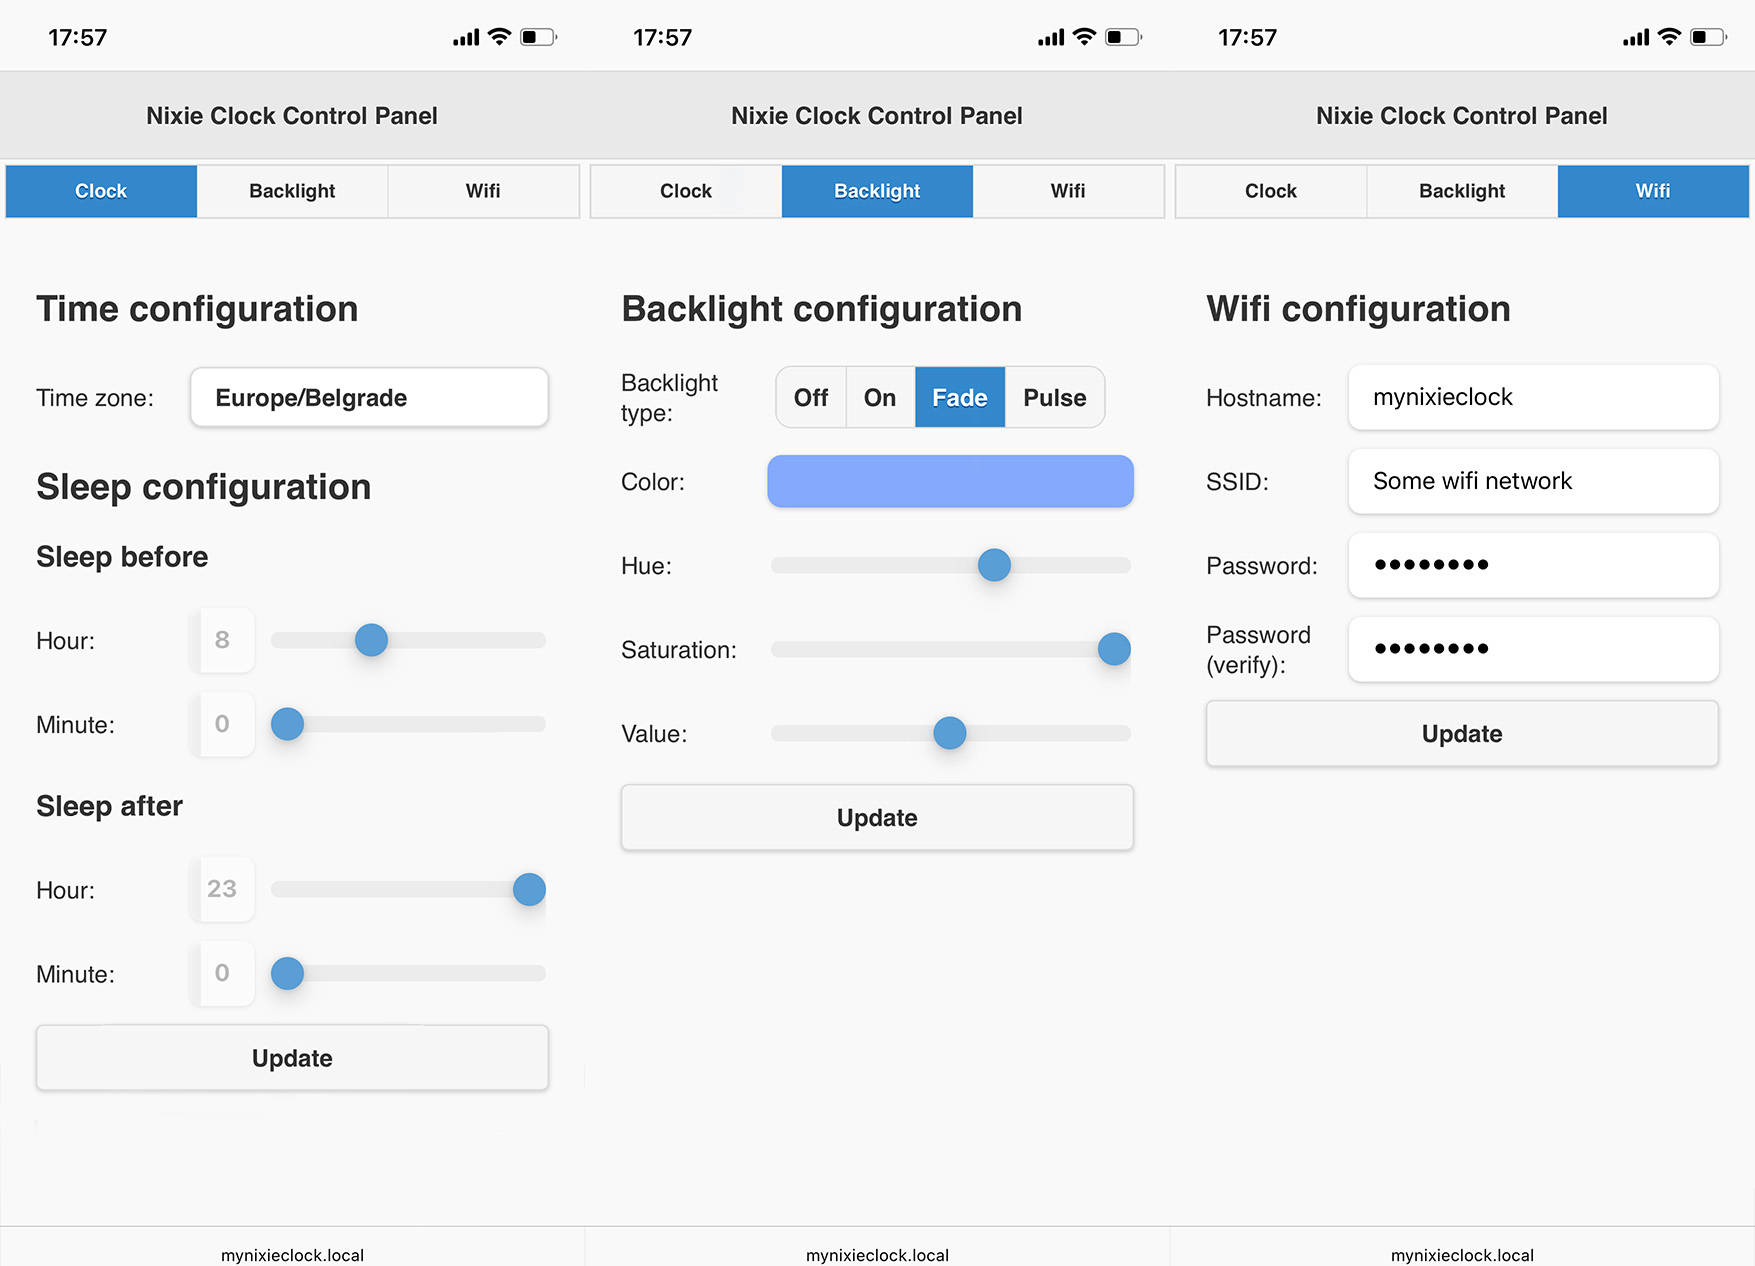
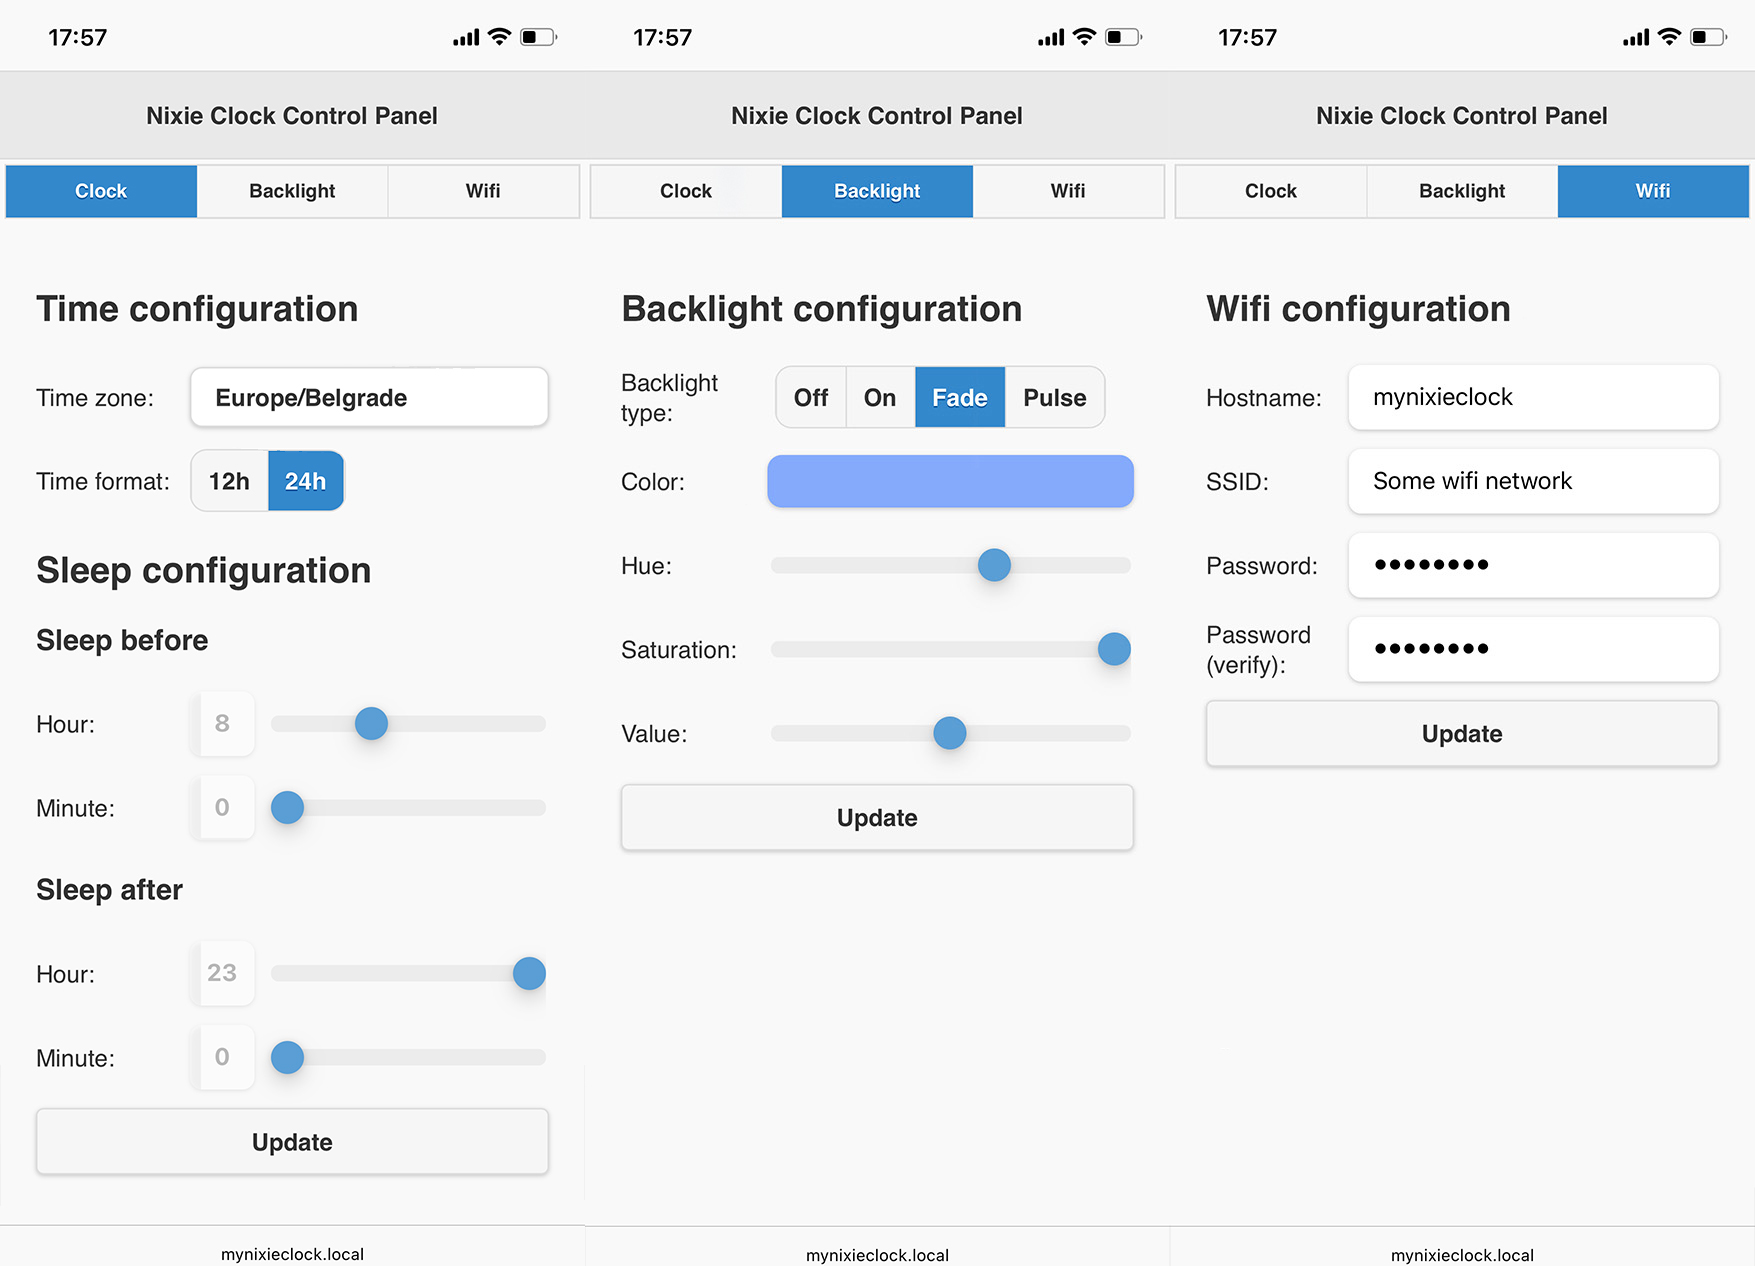
Add support for showing 12 and 24 hour formats

diff --git a/firmware/flash_data/frontend/server.js b/firmware/flash_data/frontend/server.js
@@ -13,19 +13,21 @@ class HSV {
 }
 
 class TimeInfo {
-    constructor(tzZone, tzOffset) {
+    constructor(tzZone, tzOffset, timeFormat) {
         this.tzZone = tzZone;
         this.tzOffset = tzOffset
+        this.timeFormat = timeFormat;
     }
     toJson() {
         return {
             "tz_zone": this.tzZone,
-            "tz_offset": this.tzOffset
+            "tz_offset": this.tzOffset,
+            "time_format": this.timeFormat
         };
     }
     static Builder = class {
         fromJson(message) {
-            return new TimeInfo(message.tz_zone, message.tz_offset);
+            return new TimeInfo(message.tz_zone, message.tz_offset, message.time_format);
         }
     }
 }
@@ -221,6 +223,7 @@ function getTimeInfo() {
                     timeZoneDropdown.selectedIndex = i;
                 }
             }
+            selectRadioChoiceByName("timeFormatChoice", timeInfo.timeFormat);
         })
         .catch(error => {
             console.error('There was a problem with the getting time info:', error);
@@ -230,7 +233,7 @@ function getTimeInfo() {
 function setTimeInfo() {
     const timeZoneDropdown = document.getElementById('selectTimeZone');
     const selectedTimeZone = timeZoneDropdown.options[timeZoneDropdown.selectedIndex];
-    let timeInfo = new TimeInfo(selectedTimeZone.text, selectedTimeZone.value);
+    let timeInfo = new TimeInfo(selectedTimeZone.text, selectedTimeZone.value, getSelectedRadioChoice("timeFormatChoice"));
     const requestOptions = {
         method: 'POST',
         headers: {

diff --git a/firmware/flash_data/frontend/index.html b/firmware/flash_data/frontend/index.html
@@ -25,6 +25,19 @@
 			<select class="select" name="selectTimeZone" id="selectTimeZone">
 			</select>
 		</div>
+		<div class="field-container">
+			<label for="timeFormat">Time format:</label>
+			<div class="choice-container">
+				<div class="choice" onclick="selectRadioChoiceByEvent(event)" name="timeFormatChoice" value="12h">
+					<input id="timeFormat12Hour" type="radio" />
+					<label for="timeFormat12Hour">12h</label>
+				</div>
+				<div class="choice" onclick="selectRadioChoiceByEvent(event)" name="timeFormatChoice" value="24h">
+					<input id="timeFormat24Hour" type="radio" />
+					<label for="timeFormat24Hour">24h</label>
+				</div>
+			</div>
+		</div>
 		<h2>Sleep configuration</h2>
 		<h3>Sleep before</h3>
 		<div class="field-container">

diff --git a/firmware/main/nixie_clock.cpp b/firmware/main/nixie_clock.cpp
@@ -91,9 +91,9 @@ void NixieClock::initialize() {
     // TODO initialize RTC
 
     ESP_LOGI(kTag, "Setting up time zone...");
-    TimeInfo timeInfo = ConfigStore::loadTimeInfo().value_or(TimeInfo());
-    ESP_LOGI(kTag, "Time zone: %s", timeInfo.getTzOffset().c_str());
-    setenv("TZ", timeInfo.getTzOffset().c_str(), 1);
+    mTimeInfo = ConfigStore::loadTimeInfo().value_or(TimeInfo());
+    ESP_LOGI(kTag, "Time zone: %s", mTimeInfo.getTzOffset().c_str());
+    setenv("TZ", mTimeInfo.getTzOffset().c_str(), 1);
     tzset();
     ESP_LOGI(kTag, "Setting up time zone... done");
 
@@ -168,6 +168,7 @@ std::optional<TimeInfo> NixieClock::onGetTimeInfo() const {
 }
 
 void NixieClock::onSetTimeInfo(const TimeInfo& timeInfo) {
+    mTimeInfo = timeInfo;
     ConfigStore::saveTimeInfo(timeInfo);
     setenv("TZ", timeInfo.getTzOffset().c_str(), 1);
     tzset();
@@ -429,11 +430,11 @@ bool NixieClock::startShowCurrentTimeTask(void) {
 void NixieClock::showCurrentTimeTask(void* param) {
     NixieClock* self = static_cast<NixieClock*>(param);
     time_t now;
-    struct tm timeInfo;
+    struct tm nowTm;
     time(&now);
-    localtime_r(&now, &timeInfo);
+    localtime_r(&now, &nowTm);
     char buf[32];
-    strftime(buf, sizeof(buf), "%H:%M:%S", &timeInfo);
+    strftime(buf, sizeof(buf), "%H:%M:%S", &nowTm);
     ESP_LOGI(kTag, "Current time: %s", buf);
     if (self->isInSleepMode()) {
         ESP_LOGI(kTag, "Sleep mode on");
@@ -457,8 +458,16 @@ void NixieClock::showCurrentTimeTask(void* param) {
     // Show time on nixie tube. Since there is only one nixie tube it is
     // needed to sequentially show digits. The time is displayed in the
     // following format: H <pause> H <pause> M <pause> M
-    int32_t nixieOutput[] = {timeInfo.tm_hour / 10, timeInfo.tm_hour % 10,
-                             timeInfo.tm_min / 10, timeInfo.tm_min % 10};
+    // handle 24 and 12 hour formats
+    uint8_t hour = nowTm.tm_hour;
+    if (self->mTimeInfo.getTimeFormat() == TimeFormat::Hour12) {
+        hour = nowTm.tm_hour % 12;
+        if (hour == 0) {
+            hour = 12;
+        }
+    }
+    int32_t nixieOutput[] = {hour / 10, hour % 10, nowTm.tm_min / 10,
+                             nowTm.tm_min % 10};
     for (auto i = 0; i < kCurrentTimeRepeatTimes; ++i) {
         for (auto j = 0; j < sizeof(nixieOutput) / sizeof(nixieOutput[0]);
              ++j) {

diff --git a/firmware/main/config_store.cpp b/firmware/main/config_store.cpp
@@ -258,12 +258,28 @@ std::optional<TimeInfo> ConfigStore::loadTimeInfo() {
         cJSON_Delete(json);
         return std::nullopt;
     }
+    if (!cJSON_GetObjectItemCaseSensitive(json, "time_format")) {
+        ESP_LOGW(kTag, "'time_format' is not found in config");
+        cJSON_Delete(json);
+        return std::nullopt;
+    }
     // populate TimeInfo object
     TimeInfo timeInfo;
     timeInfo.setTzZone(
         cJSON_GetObjectItemCaseSensitive(json, "tz_zone")->valuestring);
     timeInfo.setTzOffset(
         cJSON_GetObjectItemCaseSensitive(json, "tz_offset")->valuestring);
+    std::string timeFormat =
+        cJSON_GetObjectItemCaseSensitive(json, "time_format")->valuestring;
+    if (timeFormat == "24h") {
+        timeInfo.setTimeFormat(TimeFormat::Hour24);
+    } else if (timeFormat == "12h") {
+        timeInfo.setTimeFormat(TimeFormat::Hour12);
+    } else {
+        ESP_LOGW(kTag, "Invalid 'time_format'");
+        cJSON_Delete(json);
+        return std::nullopt;
+    }
     cJSON_Delete(json);
     return timeInfo;
 }
@@ -275,6 +291,9 @@ bool ConfigStore::saveTimeInfo(const TimeInfo& timeInfo) {
                           cJSON_CreateString(timeInfo.getTzZone().c_str()));
     cJSON_AddItemToObject(json, "tz_offset",
                           cJSON_CreateString(timeInfo.getTzOffset().c_str()));
+    cJSON_AddItemToObject(
+        json, "time_format",
+        cJSON_CreateString(timeFormatToString(timeInfo.getTimeFormat())));
     char* jsonString = cJSON_Print(json);
     if (jsonString != nullptr) {
         if (mMutex && xSemaphoreTake(mMutex, portMAX_DELAY) == pdTRUE) {

diff --git a/firmware/main/web_server.cpp b/firmware/main/web_server.cpp
@@ -270,6 +270,8 @@ esp_err_t WebServer::handleGetTimeInfo(httpd_req_t* req) {
     cJSON* root = cJSON_CreateObject();
     cJSON_AddStringToObject(root, "tz_zone", timeInfo.getTzZone().c_str());
     cJSON_AddStringToObject(root, "tz_offset", timeInfo.getTzOffset().c_str());
+    cJSON_AddStringToObject(root, "time_format",
+                            timeFormatToString(timeInfo.getTimeFormat()));
     char* jsonStr = cJSON_Print(root);
     httpd_resp_sendstr(req, jsonStr);
     free(static_cast<void*>(jsonStr));
@@ -302,6 +304,17 @@ esp_err_t WebServer::handleSetTimeInfo(httpd_req_t* req) {
     TimeInfo timeInfo;
     timeInfo.setTzZone(cJSON_GetObjectItem(root, "tz_zone")->valuestring);
     timeInfo.setTzOffset(cJSON_GetObjectItem(root, "tz_offset")->valuestring);
+    std::string timeFormat =
+        cJSON_GetObjectItemCaseSensitive(root, "time_format")->valuestring;
+    if (timeFormat == "12h") {
+        timeInfo.setTimeFormat(TimeFormat::Hour12);
+    } else if (timeFormat == "24h") {
+        timeInfo.setTimeFormat(TimeFormat::Hour24);
+    } else {
+        httpd_resp_send_err(req, HTTPD_500_INTERNAL_SERVER_ERROR,
+                            "Unknown time format");
+        return ESP_FAIL;
+    }
     callback->onSetTimeInfo(timeInfo);
     cJSON_Delete(root);
     httpd_resp_sendstr(req, "Post control value successfully");

diff --git a/firmware/main/include/time_info.h b/firmware/main/include/time_info.h
@@ -12,6 +12,26 @@
 #include <string>
 
 /**
+ * @brief An enumeration representing time formats
+ */
+enum class TimeFormat { Hour24, Hour12 };
+
+/**
+ * @brief Convert time format to c-style string
+ * @param[in] tf time format
+ */
+constexpr const char* timeFormatToString(TimeFormat tf) {
+    switch (tf) {
+    case TimeFormat::Hour24:
+        return "24h";
+    case TimeFormat::Hour12:
+        return "12h";
+    default:
+        return "unknown";
+    }
+}
+
+/**
  * @brief Represents a Time info class
  *
  */
@@ -69,9 +89,24 @@ class TimeInfo {
      */
     void setTzOffset(const std::string& value);
 
+    /**
+     * @brief Getter for time format
+     *
+     * @return time format
+     */
+    TimeFormat getTimeFormat() const;
+
+    /**
+     * @brief Setter for time format
+     *
+     * @param value time format
+     */
+    void setTimeFormat(TimeFormat value);
+
   private:
     std::string mTzZone;
     std::string mTzOffset;
+    TimeFormat mTimeFormat;
 };
 
 #endif   // time_info_h

diff --git a/firmware/main/time_info.cpp b/firmware/main/time_info.cpp
@@ -8,7 +8,7 @@
 #include "time_info.h"
 
 TimeInfo::TimeInfo(const std::string& tzZone, const std::string& tzOffset)
-    : mTzZone(tzZone), mTzOffset(tzOffset) {}
+    : mTzZone(tzZone), mTzOffset(tzOffset), mTimeFormat(TimeFormat::Hour24) {}
 
 std::string TimeInfo::getTzZone() const { return mTzZone; }
 
@@ -17,3 +17,7 @@ void TimeInfo::setTzZone(const std::string& value) { mTzZone = value; }
 std::string TimeInfo::getTzOffset() const { return mTzOffset; }
 
 void TimeInfo::setTzOffset(const std::string& value) { mTzOffset = value; }
+
+TimeFormat TimeInfo::getTimeFormat() const { return mTimeFormat; }
+
+void TimeInfo::setTimeFormat(TimeFormat value) { mTimeFormat = value; }

diff --git a/firmware/main/include/nixie_clock.h b/firmware/main/include/nixie_clock.h
@@ -11,6 +11,7 @@
 #include "in14_nixie_tube.h"
 #include "led_controller.h"
 #include "sleep_info.h"
+#include "time_info.h"
 #include "web_server.h"
 #include "wifi_info.h"
 
@@ -48,6 +49,7 @@ class NixieClock : public IClock {
     LedController mLedController;
     In14NixieTube mNixieTube;
     SleepInfo mSleepInfo;
+    TimeInfo mTimeInfo;
     WebServer mWebServer;
     TaskHandle_t mShowCurrentTimeTaskHandle;
 };
